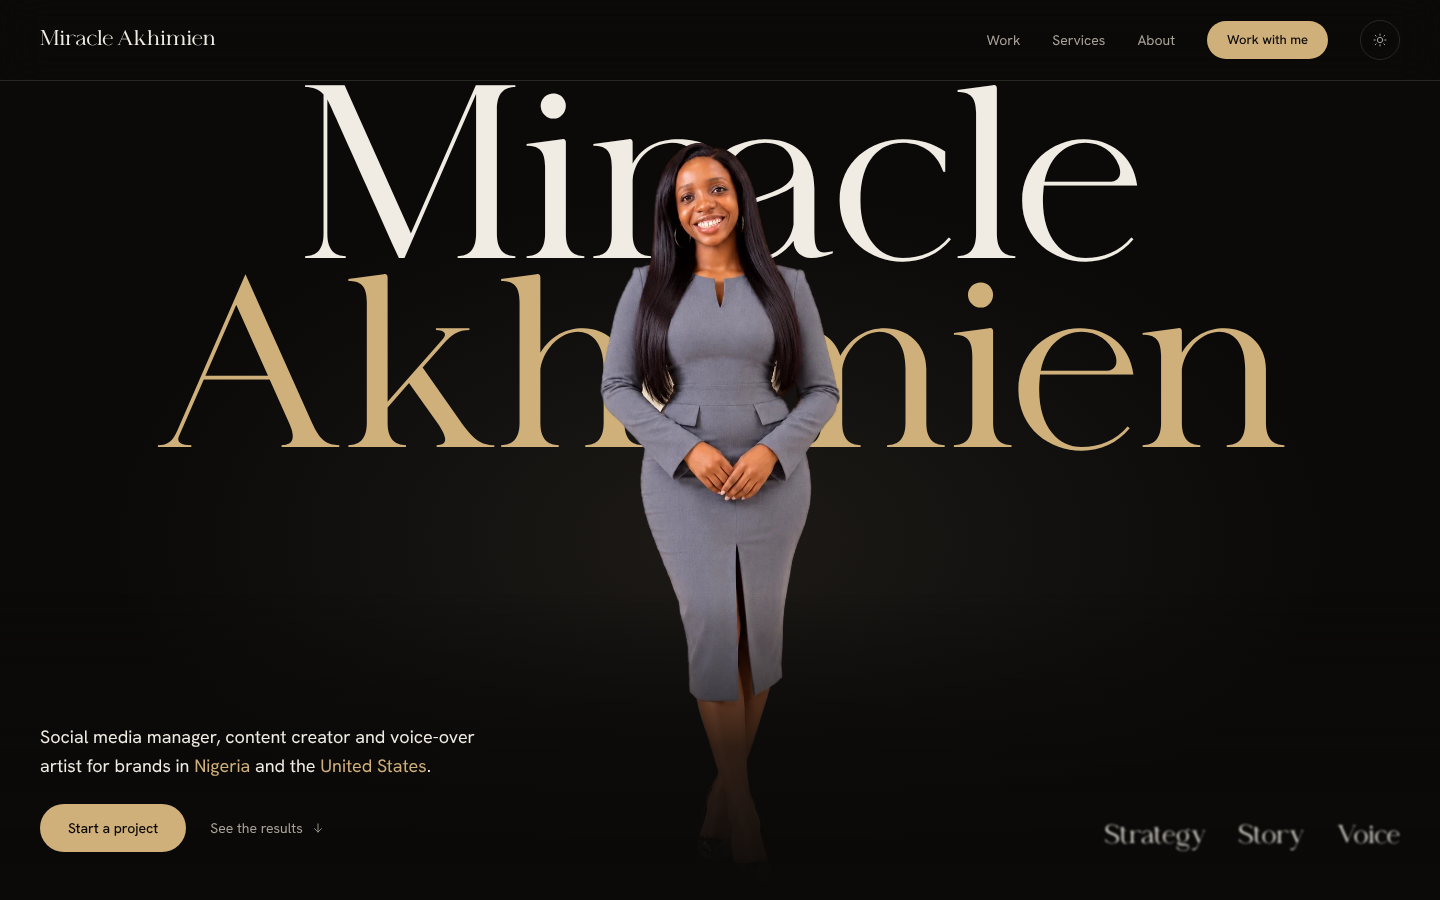
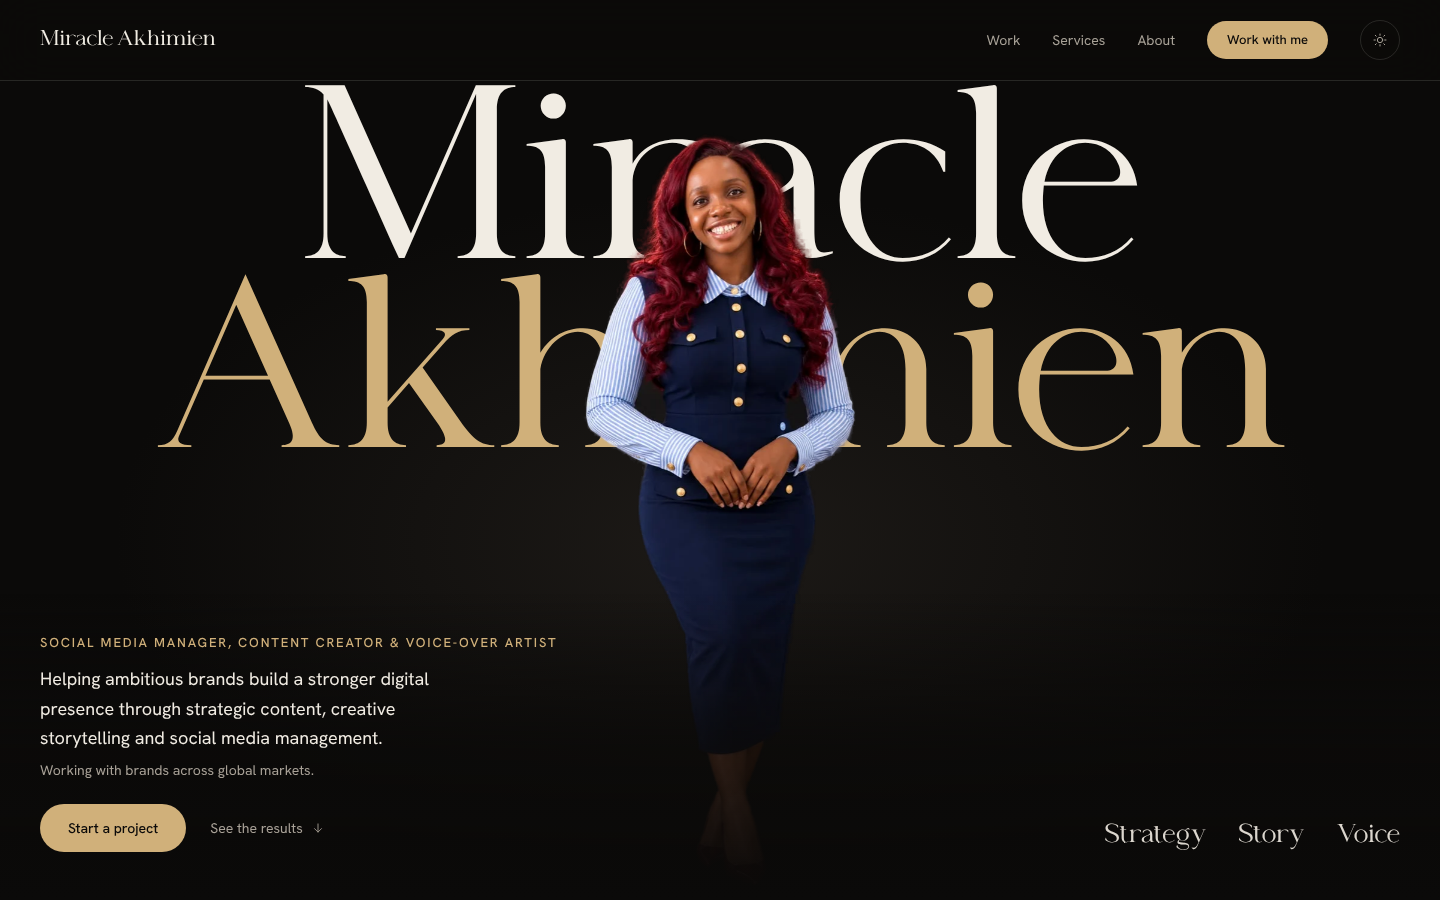
Use client's new photos and hero copy; drop Nigeria/US positioning
Navy gown hero in dark mode, grey gown in light mode, burgundy suit in About.

Claude-Session: https://claude.ai/code/session_017HRKuGRTr2TeYunUwT3HaN

diff --git a/web/app/page.tsx b/web/app/page.tsx
@@ -101,6 +101,18 @@ export default function Home() {
               Akhimien
             </span>
           </h1>
+          {/* Navy gown on the dark theme, grey gown on the light theme: each was shot on a matching ground. */}
+          <img
+            src="/media/hero-navy-900.webp"
+            srcSet="/media/hero-navy-520.webp 520w, /media/hero-navy-900.webp 900w"
+            sizes="(min-width: 768px) 32vw, 70vw"
+            width={900}
+            height={2237}
+            alt=""
+            fetchPriority="high"
+            className="enter-lift par-figure absolute bottom-0 left-1/2 hidden h-[72svh] w-auto max-w-none -translate-x-1/2 dark:block md:h-[86svh]"
+            style={{ animationDelay: "250ms" }}
+          />
           <img
             src="/media/portrait-cut-900.webp"
             srcSet="/media/portrait-cut-520.webp 520w, /media/portrait-cut-900.webp 900w"
@@ -108,17 +120,16 @@ export default function Home() {
             width={900}
             height={2560}
             alt=""
-            fetchPriority="high"
-            className="enter-lift par-figure absolute bottom-0 left-1/2 h-[78svh] w-auto max-w-none -translate-x-1/2 md:h-[86svh]"
+            loading="lazy"
+            className="enter-lift par-figure absolute bottom-0 left-1/2 h-[72svh] w-auto max-w-none -translate-x-1/2 dark:hidden md:h-[86svh]"
             style={{ animationDelay: "250ms" }}
           />
           <div className="absolute inset-x-0 bottom-0 h-[34svh] bg-gradient-to-t from-wall via-wall/80 to-transparent" aria-hidden />
           <div className="par-copy absolute inset-x-0 bottom-0 mx-auto flex max-w-[92rem] flex-col gap-6 px-5 pb-8 md:flex-row md:items-end md:justify-between md:px-10 md:pb-12">
-            <div className="enter-rise max-w-md" style={{ animationDelay: "500ms" }}>
-              <p className="text-[17px] leading-relaxed md:text-lg">
-                Social media manager, content creator and voice-over artist for brands in{" "}
-                <span className="text-gold">Nigeria</span> and the <span className="text-gold">United States</span>.
-              </p>
+            <div className="enter-rise max-w-[34rem]" style={{ animationDelay: "500ms" }}>
+              <p className="text-[13px] font-medium uppercase tracking-[0.14em] text-gold">{site.disciplines}</p>
+              <p className="mt-3 max-w-md text-[17px] leading-relaxed md:text-lg">{site.pitch}</p>
+              <p className="mt-2 text-sm text-ink-2">{site.reach}</p>
               <div className="mt-6 flex items-center gap-6">
                 <a
                   href="#contact"
@@ -373,15 +384,15 @@ export default function Home() {
           <div className="mx-auto grid max-w-[92rem] items-center gap-12 md:grid-cols-12 md:gap-10">
             <div className="md:col-span-5">
               <img
-                src="/media/portrait-1024.webp"
-                srcSet="/media/portrait-640.webp 640w, /media/portrait-1024.webp 1024w"
+                src="/media/about-suit-853.webp"
+                srcSet="/media/about-suit-640.webp 640w, /media/about-suit-853.webp 853w"
                 sizes="(min-width: 768px) 40vw, 92vw"
                 width={1024}
                 height={1536}
-                alt={`${site.fullName} in a grey dress, smiling`}
+                alt={`${site.fullName} in a burgundy suit, smiling`}
                 loading="lazy"
                 decoding="async"
-                className="curtain aspect-[4/5] w-full rounded-2xl object-cover object-[50%_15%]"
+                className="curtain aspect-[4/5] w-full rounded-2xl object-cover object-[50%_20%]"
               />
             </div>
             <div className="md:col-span-6 md:col-start-7">

diff --git a/web/app/layout.tsx b/web/app/layout.tsx
@@ -8,13 +8,13 @@ import { site } from "@/content/site";
 
 const title = `${site.name}: Strategy, Story & Voice`;
 const description =
-  "Miracle Akhimien is a social media manager, content creator and voice-over artist working with brands in Nigeria and the United States.";
+  "Miracle Akhimien: Social Media Manager, Content Creator & Voice-Over Artist. Helping ambitious brands build a stronger digital presence through strategic content, creative storytelling and social media management.";
 
 export const metadata: Metadata = {
   metadataBase: new URL(site.url),
   title,
   description,
-  openGraph: { title, description, images: ["/media/portrait-1024.webp"], type: "website" },
+  openGraph: { title, description, images: ["/media/about-suit-853.webp"], type: "website" },
 };
 
 export const viewport: Viewport = {

diff --git a/web/content/site.ts b/web/content/site.ts
@@ -37,7 +37,10 @@ export type Screen = { src: string; alt: string; platform: string; handle: strin
 export const site = {
   name: "Miracle Akhimien",
   fullName: "Miracle Wealth Akhimien",
-  disciplines: "Social media manager, content creator and voice-over artist",
+  disciplines: "Social Media Manager, Content Creator & Voice-Over Artist",
+  pitch:
+    "Helping ambitious brands build a stronger digital presence through strategic content, creative storytelling and social media management.",
+  reach: "Working with brands across global markets.",
   // TODO(client): confirm public email, booking link and her own handles.
   email: "",
   booking: "",

diff --git a/docs/CONTENT_AUDIT.md b/docs/CONTENT_AUDIT.md
@@ -97,3 +97,12 @@ File: `assets/photos/miracle-portrait-full.webp` (1024×1536, full-length, stand
 - **Hero use:** a tall portrait column on the right with the type on the left. On mobile, crop from head to waist above the headline.
 - **Resolution:** 1024×1536 is too small for a large desktop hero (it gets soft above ~800px wide). **Ask for the original full-resolution file** (straight from the photographer, not via WhatsApp).
 - **Still needed:** one or two more photos for About and Work so the same image doesn't repeat. Ideally one of her working: filming, editing, or at a mic.
+
+
+---
+
+## 8. Photos and positioning update (11/10/2026)
+
+- Client supplied five studio photos. In use (her pick: two gowns, one suit): navy gown on black (dark-mode hero, background removed), grey gown on cream (light-mode hero), burgundy suit (About).
+- New hero copy from client: "Social Media Manager, Content Creator & Voice-Over Artist" / "Helping ambitious brands build a stronger digital presence through strategic content, creative storytelling and social media management." / "Working with brands across global markets."
+- Positioning: drop "Nigeria and the United States" from headline copy, because the client feels it limits her. Client cities stay on the case studies as facts.
